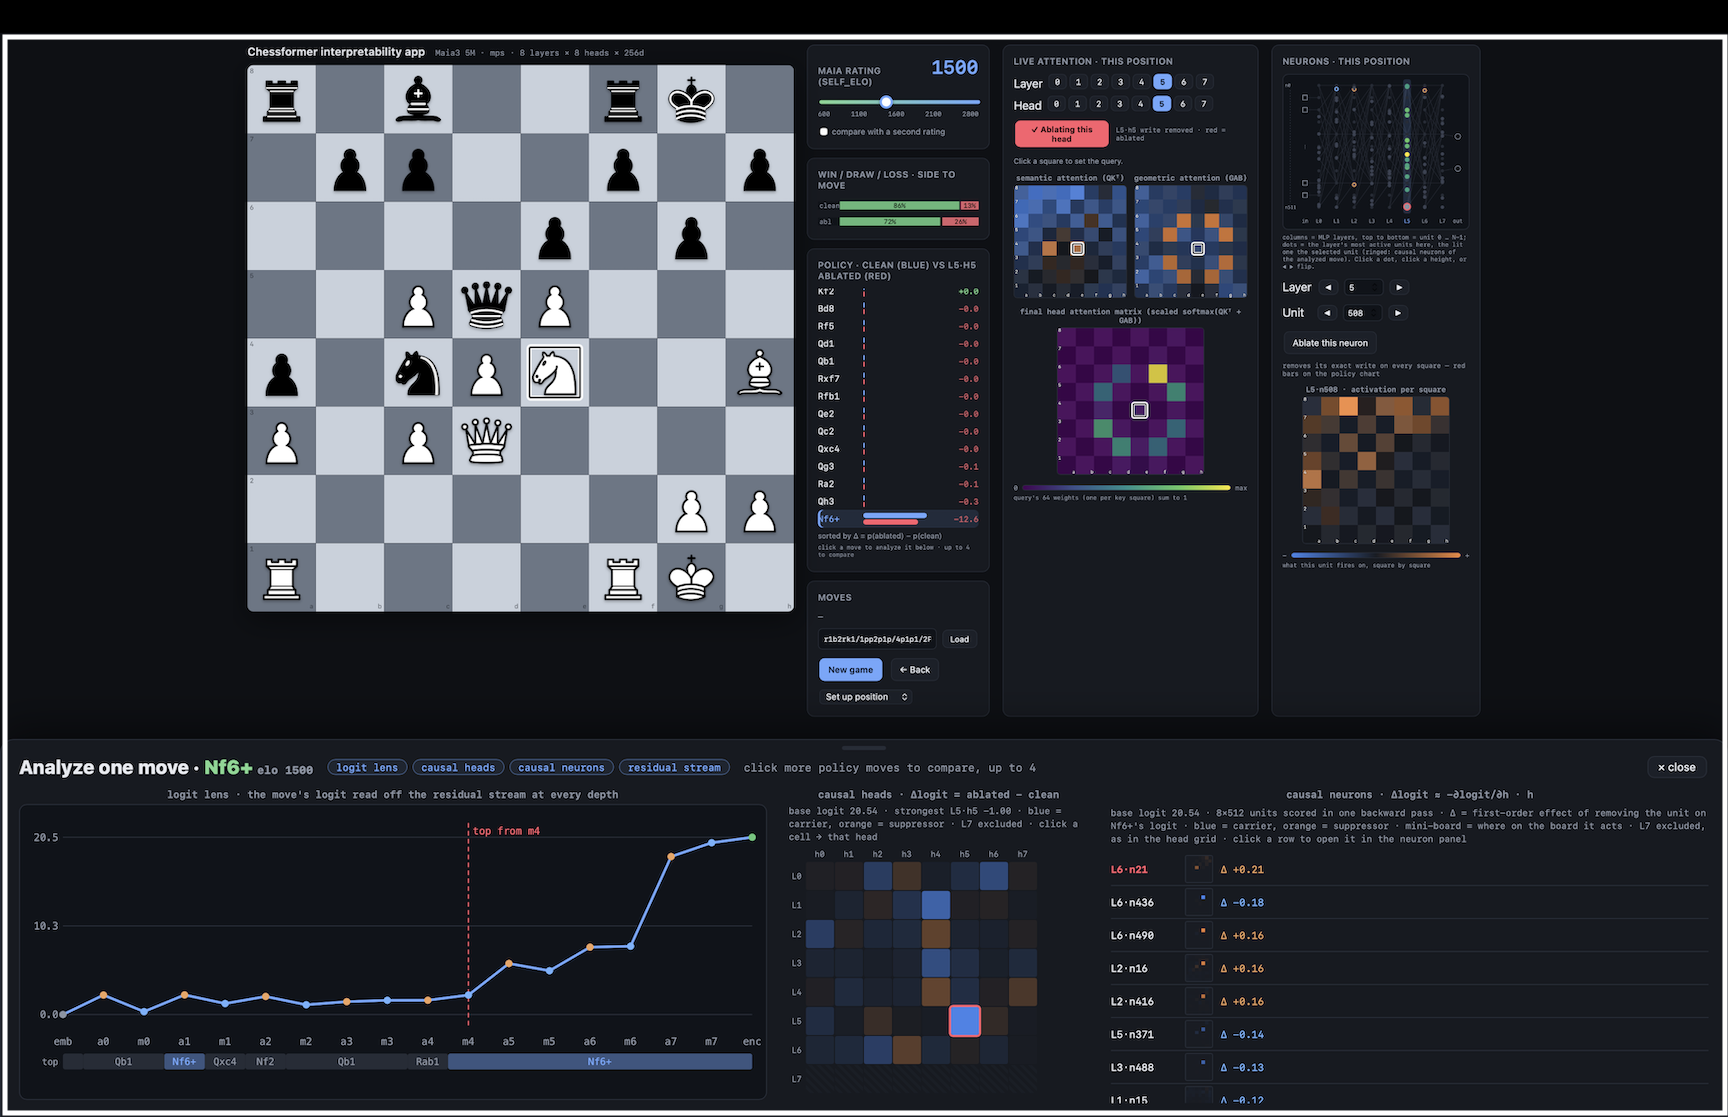
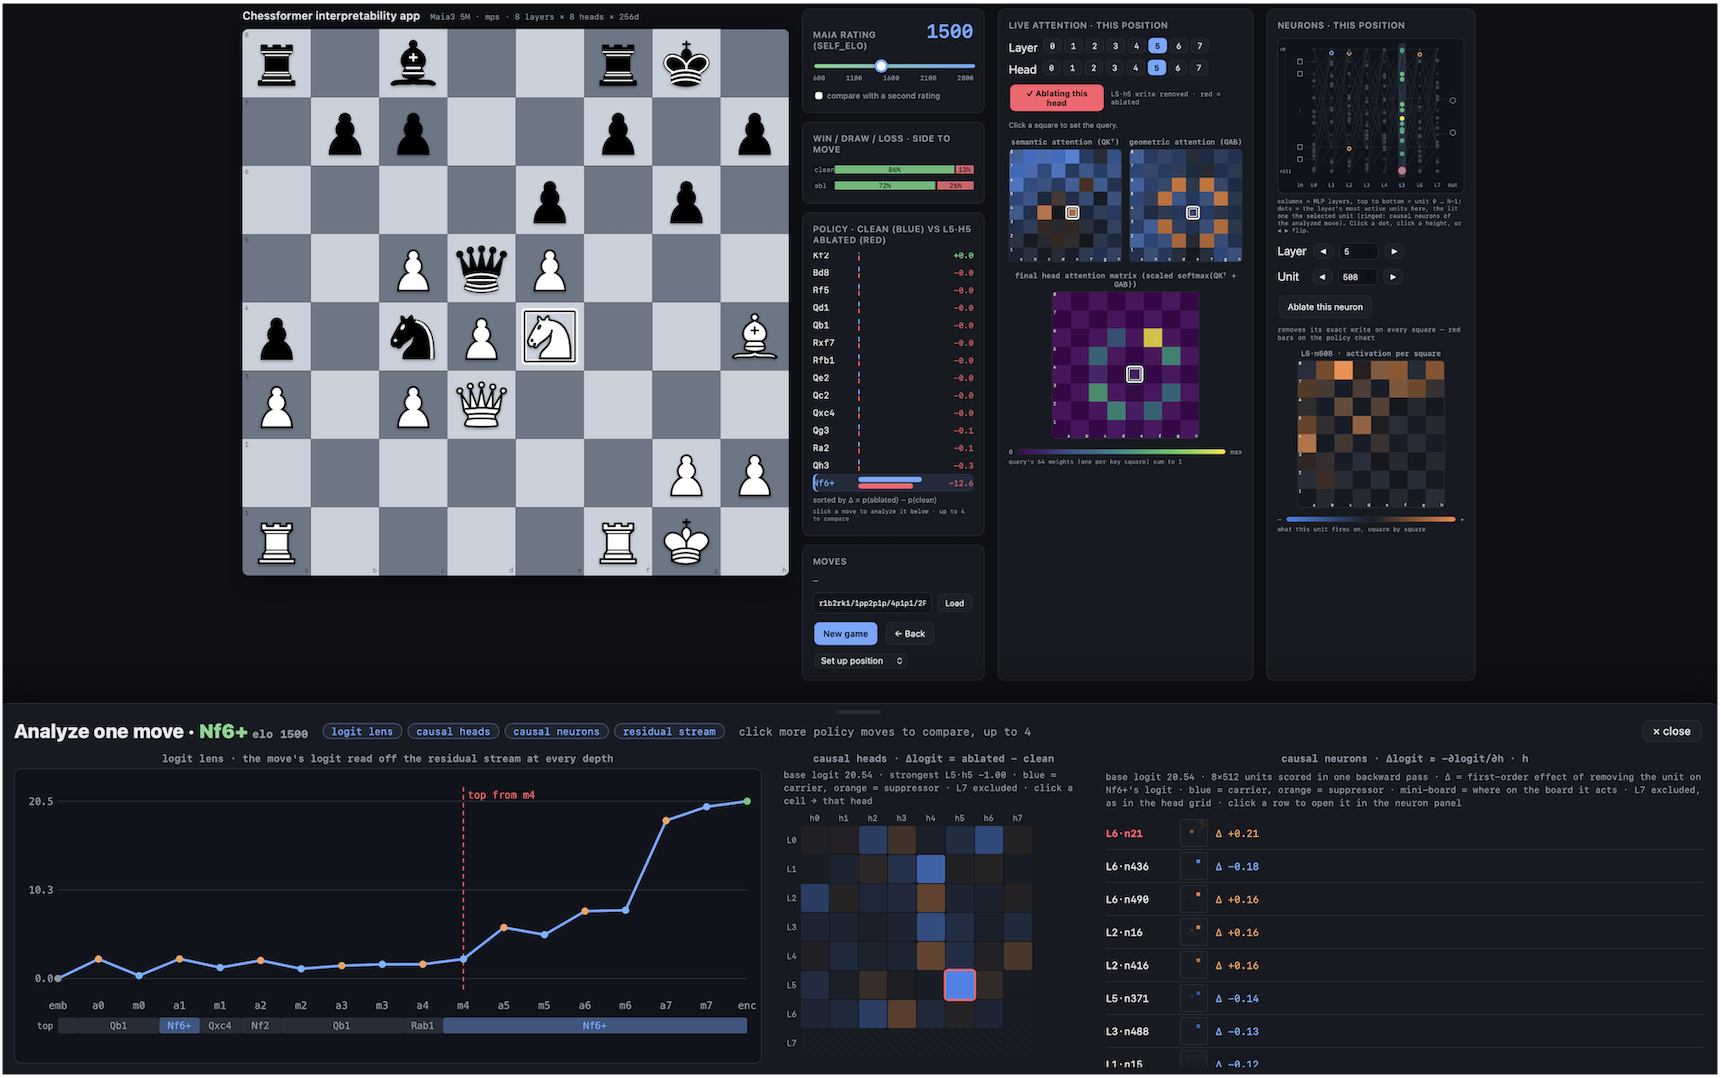
Version 1.1

Changed region(s): [[0.0, 0.0, 1.0, 1.0], [0.4619, 0.8265, 0.4927, 0.8571], [0.3388, 0.8265, 0.3696, 0.8571]]

diff --git a/README.md b/README.md
@@ -6,12 +6,14 @@ Download a chessformer engine then `pip install chessformer_lens`
 
 [![DOI](https://zenodo.org/badge/DOI/10.5281/zenodo.21877655.svg)](https://doi.org/10.5281/zenodo.21877655)
 
-![The app: board, policy, live attention and the GAB decomposition](https://raw.githubusercontent.com/chessformer-lens/chessformer_lens/main/Screenshots/HeroShot.png)
+![The app](https://raw.githubusercontent.com/chessformer-lens/chessformer_lens/main/Screenshots/HeroShot.png)
+
+---
 
 **Paper:** [Increasing Skill Level Recruits Deeper Attention Layers in a Frozen Chess Transformer](https://arxiv.org/abs/2609.23917) (Litman, 2026). Every figure and most of the analysis in this paper was made with this library. 
 
-
 ---
+
 ## Case study: Knight Fork Carrier Head
 **Download chessformer_lens locally:**
 
